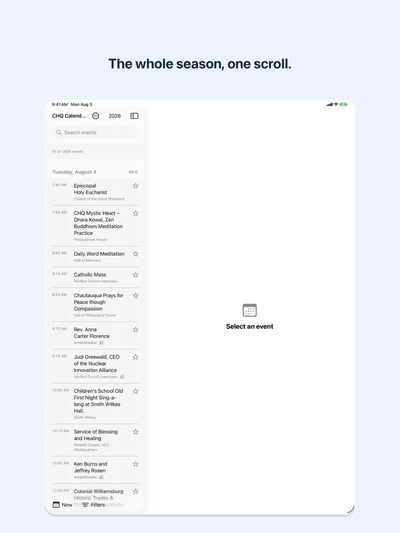
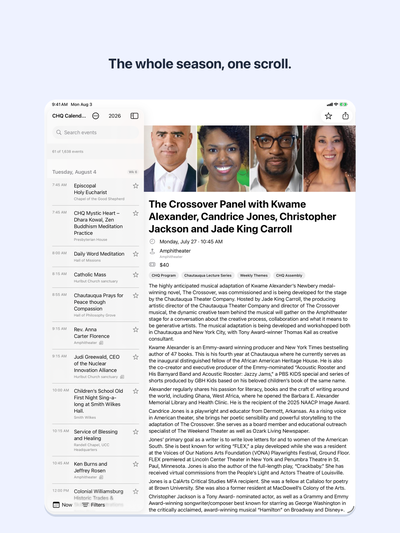
feat(ios): add -uitest-select-event-index, restore a rich distinct iPad 01-season
The previous commit shipped iPad's `01-season` with an unpopulated detail
column — the split view's "Select an event" placeholder over roughly
two-thirds of the frame — because `01-season` and `04-detail` had
identical launch args and captured byte-identical images, and only the
unpopulated variant passed the duplicate gate. That slide is the first
thing a prospective iPad user sees on the listing, and "distinct but
mostly empty" is worse than "rich but duplicated". Neither branch of that
choice was acceptable, so this breaks the tie a third way.

`-uitest-select-event-index <n>` selects the nth-richest linked event
instead of always the richest. It reads the argument that follows it,
exactly like `-uitest-search <term>`, and shares `applyUITestHooks`'s
cold-launch sidecar retry and selection plumbing with
`-uitest-select-linked-event` — one mechanism with a parameter, not a
second one. DEBUG-only, like every other hook.

`AppModel.uiTestFirstLinkedEvent` is now index 0 of a new
`uiTestLinkedEvents`, the shared candidate list: linked events sorted by
content weight descending, then by `id`. The `id` tie-break matters —
the previous `max(by:)` returned an arbitrary element among equal
weights, which is enough to make two capture runs of the same build
select different events and produce different bytes. Confirmed inert for
the current data: iPad `02`/`03`/`04`/`05` came out byte-identical to the
previous run, so index 0 still resolves to the same event.
[…]

Changed region(s): [[0.36, 0.2101, 0.9, 0.9606]]

diff --git a/ios/ChqCalendarTests/AppModelTests.swift b/ios/ChqCalendarTests/AppModelTests.swift
@@ -714,7 +714,11 @@ struct AppModelTests {
     /// rather than whatever the shared fixture happens to contain. `.all`
     /// scope and a pinned clock keep the numbers independent of the wall
     /// clock. 2026 is `placeholderYear`, so `isCurrentYear` is true.
-    private func makeSnapshotModel(events: [Event], now: Date) -> AppModel {
+    private func makeSnapshotModel(
+        events: [Event],
+        now: Date,
+        articleLinks: [String: [ArticleLink]] = [:]
+    ) -> AppModel {
         let model = AppModel(
             repository: EventRepository(api: MockAPI(), cache: MockCache()),
             store: UserStateStore(defaults: makeDefaults(), now: { Date() }),
@@ -722,7 +726,8 @@ struct AppModelTests {
         )
         model.filter = FilterSelection(dateScope: .all)
         model.snapshot = CalendarSnapshot(
-            year: 2026, events: events, articleLinks: [:], themes: [], fetchedAt: now)
+            year: 2026, events: events, articleLinks: articleLinks,
+            themes: [], fetchedAt: now)
         return model
     }
 
@@ -835,6 +840,111 @@ struct AppModelTests {
 
         #expect(model.favorites.count == 3)
         #expect(model.favoritesMatchCount == 1)
+    }
+
+    // MARK: - UI-test event selection hooks (DEBUG only)
+
+    /// Backs `-uitest-select-linked-event` (index 0) and
+    /// `-uitest-select-event-index <n>`. Screenshot captures have to be
+    /// byte-reproducible, so this pins the ordering rule rather than
+    /// leaving it to `max(by:)`, which returns an arbitrary element among
+    /// equal weights.
+    @Test func uiTestLinkedEventsAreRankedByRichnessThenIdForTieBreaks() throws {
+        let now = try #require(ChqTime.parse("2026-08-03 12:00:00"))
+        func link(_ title: String) -> ArticleLink {
+            ArticleLink(
+                title: title, url: URL(string: "https://example.com/\(title)")!,
+                kind: .preview, pubDate: "2026-06-30")
+        }
+        let model = makeSnapshotModel(
+            events: [
+                // "b" and "c" have identical weight (same details length, one
+                // link each) — the id tie-break must order them, not chance.
+                makeEvent(id: "c", start: try #require(ChqTime.parse("2026-08-03 09:00:00")),
+                          title: "Tie C", details: String(repeating: "x", count: 100)),
+                makeEvent(id: "b", start: try #require(ChqTime.parse("2026-08-03 10:00:00")),
+                          title: "Tie B", details: String(repeating: "x", count: 100)),
+                makeEvent(id: "a", start: try #require(ChqTime.parse("2026-08-03 19:00:00")),
+                          title: "Richest", details: String(repeating: "x", count: 900)),
+                makeEvent(id: "unlinked", start: try #require(ChqTime.parse("2026-08-04 10:00:00")),
+                          title: "No Links", details: String(repeating: "x", count: 5000)),
+            ],
+            now: now,
+            articleLinks: ["a": [link("a1")], "b": [link("b1")], "c": [link("c1")]])
+
+        // The 5000-character "unlinked" event outweighs every candidate but
+        // has no article links, so it must not appear at all.
+        #expect(model.uiTestLinkedEvents.map(\.id) == ["a", "b", "c"])
+        #expect(model.uiTestFirstLinkedEvent?.id == "a")
+        #expect(model.uiTestLinkedEvent(at: 0)?.id == "a")
+        #expect(model.uiTestLinkedEvent(at: 1)?.id == "b")
+        #expect(model.uiTestLinkedEvent(at: 2)?.id == "c")
+
+        // Repeated reads must agree — this is the reproducibility the
+        // screenshot pipeline depends on.
+        #expect(model.uiTestLinkedEvents.map(\.id) == model.uiTestLinkedEvents.map(\.id))
+    }
+
+    /// The whole point of the index hook: index 1 must be a *different*
+    /// event than `-uitest-select-linked-event` picks, so iPad's `01-season`
+    /// and `04-detail` stop capturing byte-identical images.
+    @Test func uiTestIndexOneDiffersFromTheDefaultSelection() throws {
+        let now = try #require(ChqTime.parse("2026-08-03 12:00:00"))
+        let link = ArticleLink(
+            title: "t", url: URL(string: "https://example.com/t")!,
+            kind: .preview, pubDate: "2026-06-30")
+        let model = makeSnapshotModel(
+            events: [
+                makeEvent(id: "a", start: try #require(ChqTime.parse("2026-08-03 19:00:00")),
+                          title: "Richest", details: String(repeating: "x", count: 900)),
+                makeEvent(id: "b", start: try #require(ChqTime.parse("2026-08-03 20:00:00")),
+                          title: "Second", details: String(repeating: "x", count: 500)),
+            ],
+            now: now,
+            articleLinks: ["a": [link], "b": [link]])
+
+        let first = try #require(model.uiTestFirstLinkedEvent)
+        let second = try #require(model.uiTestLinkedEvent(at: 1))
+        #expect(first.id != second.id)
+    }
+
+    /// Out of range is a no-op (`nil`), deliberately not a clamp — a typo'd
+    /// index must leave the detail column empty and visible in review, not
+    /// silently capture a different, plausible-looking event.
+    @Test func uiTestLinkedEventOutOfRangeIsNilRatherThanClamped() throws {
+        let now = try #require(ChqTime.parse("2026-08-03 12:00:00"))
+        let link = ArticleLink(
+            title: "t", url: URL(string: "https://example.com/t")!,
+            kind: .preview, pubDate: "2026-06-30")
+        let model = makeSnapshotModel(
+            events: [
+                makeEvent(id: "a", start: try #require(ChqTime.parse("2026-08-03 19:00:00")),
+                          details: "some details"),
+            ],
+            now: now,
+            articleLinks: ["a": [link]])
+
+        #expect(model.uiTestLinkedEvents.count == 1)
+        #expect(model.uiTestLinkedEvent(at: 1) == nil)
+        #expect(model.uiTestLinkedEvent(at: 99) == nil)
+        #expect(model.uiTestLinkedEvent(at: -1) == nil)
+    }
+
+    @Test func uiTestLinkedEventsIsEmptyWithoutASnapshotOrLinks() throws {
+        let bare = AppModel(
+            repository: EventRepository(api: MockAPI(), cache: MockCache()),
+            store: UserStateStore(defaults: makeDefaults(), now: { Date() })
+        )
+        #expect(bare.uiTestLinkedEvents.isEmpty)
+        #expect(bare.uiTestFirstLinkedEvent == nil)
+        #expect(bare.uiTestLinkedEvent(at: 0) == nil)
+
+        // A snapshot with events but no sidecar links is still no candidates.
+        let now = try #require(ChqTime.parse("2026-08-03 12:00:00"))
+        let noLinks = makeSnapshotModel(
+            events: [makeEvent(id: "a", start: now)], now: now, articleLinks: [:])
+        #expect(noLinks.uiTestLinkedEvents.isEmpty)
+        #expect(noLinks.uiTestLinkedEvent(at: 0) == nil)
     }
 
     // MARK: - legacy filter casing normalization

diff --git a/ios/ChqCalendar/App/AppModel.swift b/ios/ChqCalendar/App/AppModel.swift
@@ -602,27 +602,61 @@ final class AppModel {
     /// is present; consumed (and reset) by `EventDetailView.onAppear`.
     var uiTestShowAddToCalendar = false
 
-    /// The linked-content-richest event in the current snapshot — the
-    /// deterministic target for `-uitest-select-linked-event` /
-    /// `-uitest-show-add-to-calendar` / `-uitest-scroll-to-articles`.
+    /// Every event with article links, richest first — the single candidate
+    /// list behind `-uitest-select-linked-event`,
+    /// `-uitest-show-add-to-calendar`, `-uitest-scroll-to-articles` and
+    /// `-uitest-select-event-index <n>`.
     ///
-    /// Deliberately picks the *richest* event with article links (longest
-    /// `details`, then most links) rather than merely the first one found.
-    /// The detail screenshot pair (`04-detail` / `05-articles`) only differs
-    /// by scroll position, and on iPad's wide `NavigationSplitView` detail
-    /// column, body text wraps into far fewer lines than on iPhone for the
-    /// same character count — a short-description event's full detail view
-    /// (hero image + metadata + description + links + buttons) can render
-    /// with no overflow at all, making `scrollTo` a no-op and the two shots
-    /// byte-identical. Picking the richest available content makes the
-    /// detail view reliably taller than the tallest on-screen viewport
-    /// across both device sizes, so the scroll always has somewhere to go.
-    var uiTestFirstLinkedEvent: Event? {
-        snapshot?.events
+    /// Deliberately ranks by *richness* (longest `details`, then most links;
+    /// see `uiTestContentWeight`) rather than feed order. The detail
+    /// screenshot pair (`04-detail` / `05-articles`) only differs by scroll
+    /// position, and on iPad's wide `NavigationSplitView` detail column,
+    /// body text wraps into far fewer lines than on iPhone for the same
+    /// character count — a short-description event's full detail view (hero
+    /// image + metadata + description + links + buttons) can render with no
+    /// overflow at all, making `scrollTo` a no-op and the two shots
+    /// byte-identical. Ranking by content makes the detail view reliably
+    /// taller than the tallest on-screen viewport across both device sizes,
+    /// so the scroll always has somewhere to go.
+    ///
+    /// `id` breaks weight ties. The previous `max(by:)` returned an
+    /// arbitrary element among equals, which is enough to make two capture
+    /// runs of the same build select different events and produce different
+    /// bytes; screenshot captures have to be reproducible.
+    var uiTestLinkedEvents: [Event] {
+        guard let snapshot else { return [] }
+        return snapshot.events
             .filter { !articleLinks(for: $0.id).isEmpty }
-            .max { lhs, rhs in
-                uiTestContentWeight(lhs) < uiTestContentWeight(rhs)
+            .sorted { lhs, rhs in
+                let lhsWeight = uiTestContentWeight(lhs)
+                let rhsWeight = uiTestContentWeight(rhs)
+                if lhsWeight != rhsWeight { return lhsWeight > rhsWeight }
+                return lhs.id < rhs.id
             }
+    }
+
+    /// The richest linked event — index 0 of `uiTestLinkedEvents`, and what
+    /// `-uitest-select-linked-event` selects.
+    var uiTestFirstLinkedEvent: Event? {
+        uiTestLinkedEvents.first
+    }
+
+    /// The `index`-th richest linked event, for
+    /// `-uitest-select-event-index <n>`. Exists so a shot can populate the
+    /// detail column with an event *other* than index 0: on iPad both
+    /// columns are always visible, so `01-season` and `04-detail` were
+    /// selecting the same event and capturing byte-identical images.
+    ///
+    /// Out of range returns `nil`, which makes the hook a **no-op** (the
+    /// detail column stays on its "Select an event" placeholder) rather
+    /// than clamping to the nearest valid index. Clamping would silently
+    /// capture a *different, plausible-looking* event than the plan asked
+    /// for, and a typo'd index would ship a wrong-but-believable store
+    /// screenshot. A no-op is visible in the review pass instead.
+    func uiTestLinkedEvent(at index: Int) -> Event? {
+        let events = uiTestLinkedEvents
+        guard events.indices.contains(index) else { return nil }
+        return events[index]
     }
 
     /// Rough proxy for an event's rendered detail-view height: description

diff --git a/ios/ChqCalendar/Features/Calendar/CalendarView.swift b/ios/ChqCalendar/Features/Calendar/CalendarView.swift
@@ -152,8 +152,29 @@ struct CalendarView: View {
             model.filter.searchText = term
         }
 
+        // `-uitest-select-event-index <n>` reads the argument that follows
+        // it — same shape as `-uitest-search <term>` above — and selects the
+        // nth-richest linked event (0-based) instead of always the richest.
+        // It shares `AppModel.uiTestLinkedEvents`, the cold-launch retry and
+        // the selection plumbing below with `-uitest-select-linked-event`,
+        // which is just index 0; this is one mechanism with a parameter, not
+        // a second one.
+        //
+        // It exists because on iPad both split-view columns are always
+        // visible, so `01-season` (which only wants a populated detail
+        // column so the shot isn't two-thirds empty) and `04-detail` were
+        // selecting the same event and capturing byte-identical images.
+        // A non-numeric value is ignored, leaving `requestedIndex` nil and
+        // the shot behaving as if the flag were absent.
+        var requestedIndex: Int?
+        if let flagIndex = arguments.firstIndex(of: "-uitest-select-event-index"),
+           arguments.index(after: flagIndex) < arguments.endIndex {
+            requestedIndex = Int(arguments[arguments.index(after: flagIndex)])
+        }
+
         let wantsLinkedEvent = arguments.contains("-uitest-select-linked-event")
             || arguments.contains("-uitest-show-add-to-calendar")
+            || requestedIndex != nil
         guard wantsLinkedEvent else { return }
 
         if model.uiTestFirstLinkedEvent == nil {
@@ -163,7 +184,7 @@ struct CalendarView: View {
             // before concluding there's really nothing to select.
             await model.refresh(force: true)
         }
-        guard let event = model.uiTestFirstLinkedEvent else { return }
+        guard let event = model.uiTestLinkedEvent(at: requestedIndex ?? 0) else { return }
 
         if horizontalSizeClass == .regular {
             selectedEvent = event

diff --git a/docs/plans/2026-08-02-ios-ux-filtering-follow-ups.md b/docs/plans/2026-08-02-ios-ux-filtering-follow-ups.md
@@ -127,13 +127,28 @@ selection rather than once per snapshot), not a quick fix.
   view stays alive would still wedge collapse for the session. No watchdog timer
   was added; that omission is deliberate — not filed as an issue, since it's a
   considered decision rather than deferred work.
-- `check-screenshots.py` false-positives its stuck-alert heuristic on
-  `02-filters` — the venue chips read as an alert-shaped box. The shot is
-  correct; the checker needs calibration. It is invoked only by the local
-  capture script, never by CI. Tooling nit, not filed as an issue.
-- iPad's `01-season` and `04-detail` screenshots share launch arguments
-  (predates this branch) and have once produced byte-identical images. A
-  distinct UI-test hook would fix it. Tooling nit, not filed as an issue.
+- ~~`check-screenshots.py` false-positives its stuck-alert heuristic on
+  `02-filters`~~ — **FIXED** (PR #159). Two causes, both addressed. The shot
+  legitimately presents a sheet again (this branch rewired
+  `-uitest-show-filters` to present `FilterSheet`), so `presentsModal: true`
+  was restored in `screenshot-plan.json`; the flag had been correctly removed
+  in #151 when filters were inline rows, and `check-screenshots.py`'s own
+  docstring already documented the shot as exempt. Separately, the luminance
+  baseline was excluding exempt shots from the *population*, not just from
+  *evaluation*, which raised the sibling median 238.2 → 243.6 and failed the
+  clean photo-heavy `04-detail` at a 0.849 ratio against the 0.85 threshold.
+  The baseline is now built over every shot. The guard was re-verified against
+  a synthetic scrim + alert card and still fires.
+- ~~iPad's `01-season` and `04-detail` screenshots share launch arguments
+  (predates this branch) and have once produced byte-identical images~~ —
+  **FIXED** (PR #159). They did not merely produce identical images once; the
+  images committed before that PR differed *only* in the caption band, so the
+  listing was shipping two captions over one screenshot. Added the distinct
+  hook this note called for: `-uitest-select-event-index <n>` selects the
+  nth-richest linked event from `AppModel.uiTestLinkedEvents`, the same
+  deterministically-ordered list `-uitest-select-linked-event` now takes index
+  0 of. iPad's `01-season` uses index 1, so both slides show a populated
+  sidebar *and* a populated detail column, with different events.
 - `docs/app-store/screenshots.manifest.json`'s `appCommit` records the commit at
   capture time, which can predate a fix captured in the same pass. Traceability
   only, not filed as an issue.
